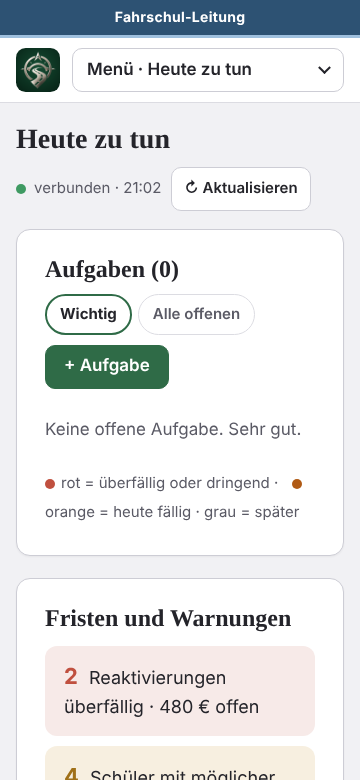
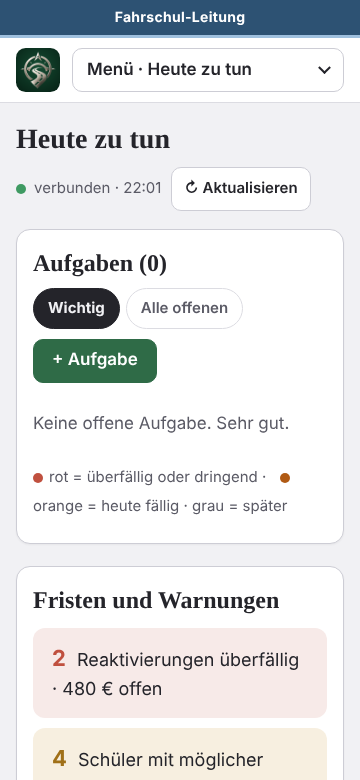
Farbe B nach Prüf-Team: IBAN-Feld am Handy (weniger Karten-Innenabstand), Gewähltes gefüllt, App-Chips und Reiter deutlich, Zusatztexte ≥4,5, Haken dunkel, Fokus im Fahrmodus, Block schraffiert, Fahrstunde #6a6a74 in App und Büro, Fahrzeugfarbe 1 sandig, Druck neutral, „Als nächstes“ dunkelgrün
Claude-Session: https://claude.ai/code/session_01DbS8C9itrfELPRqrxcZDoy

diff --git a/index.html b/index.html
@@ -24,7 +24,7 @@
   --txt:#eceff4; --muted:#b2bac7; --faint:#98a2b2;
   /* === Waldgrün-Akzent (ersetzt Orange; Variablennamen bleiben für Kompatibilität) === */
   --orange:#3f7f58; --orange-soft:rgba(255,255,255,.07); --orange-line:rgba(255,255,255,.16);
-  --akzent:#3f7f58; --akzent-dark:#336a4a; --akzent-bright:#8fcaa4; --fokus:#8fcaa4;
+  --akzent:#3f7f58; --akzent-dark:#336a4a; --akzent-bright:#8fcaa4; --fokus:#8fcaa4; --sel-bg:#3d4a5e; --sel-rand:#8fcaa4; --sel-txt:#ffffff;
   /* Alias — an mehreren Stellen (Nächste-Prüfung-Karte, Nächster-Schüler-Karte, Prüfungs-Tags) referenziert,
      bisher nirgends definiert gewesen -> Karten hatten unsichtbaren Hintergrund/Rand. */
   --gruen-soft:var(--orange-soft); --gruen-line:var(--orange-line);
@@ -1561,6 +1561,7 @@ body:not(.light) .cw-col.today .cw-dnum{color:var(--gold);}
 .cw-dnum{font-size:18px;font-weight:800;font-family:'Playfair Display',serif;}
 .cw-col.today .cw-dnum{color:var(--mint);}
 .cw-events{display:flex;flex-direction:column;gap:4px;}
+.cw-ev[style*="border-left-color:#88939a"],.ct-ev[style*="border-left-color:#88939a"]{background-image:repeating-linear-gradient(135deg,rgba(128,128,140,.28) 0,rgba(128,128,140,.28) 6px,transparent 6px,transparent 12px);}
 .cw-ev{border-left:3px solid var(--gruen-bright,#4a8b45);background:var(--bg-soft);border-radius:6px;padding:5px 6px;text-align:left;}
 .cw-ev.exam-soon{box-shadow:0 0 0 1.5px #c9a227 inset;background:rgba(201,162,39,.1);}
 .cw-ev.exam-done{background:var(--bg-soft);opacity:.92;}
@@ -1756,7 +1757,7 @@ body:not(.light) .fs-buero-link .fbl-ic,body:not(.light) .fs-buero-link .fbl-pfe
 .vortest-big .vb-ic{font-size:22px;flex:0 0 auto;}
 .vortest-big .vb-body .vb-name{color:#fff;font-weight:800;font-size:15px;}
 .vortest-big .vb-body .vb-sub{color:rgba(255,255,255,.88);font-size:12px;margin-top:1px;}
-.vortest-big .vb-arr{color:rgba(255,255,255,.6);font-size:18px;margin-left:auto;}
+.vortest-big .vb-arr{color:#fff;font-size:18px;margin-left:auto;}
 .vortest-big:active{opacity:.85;}
 /* Sehhilfe */
 .chip.sehhilfe{color:var(--muted);border-color:var(--line-soft);cursor:pointer;}
@@ -2106,7 +2107,7 @@ body:not(.light) .fs-btn-kill{color:#ff8a80;} /* K3: „Sperren“ dunkel lesbar
   --line:#38414f; --line-soft:#2e3643; --feld:#7a8598;
   --txt:#eceff4; --muted:#b2bac7; --faint:#98a2b2;
   --orange:#3f7f58; --orange-soft:rgba(255,255,255,.07); --orange-line:rgba(255,255,255,.16);
-  --akzent:#3f7f58; --akzent-dark:#336a4a; --akzent-bright:#8fcaa4; --fokus:#8fcaa4;
+  --akzent:#3f7f58; --akzent-dark:#336a4a; --akzent-bright:#8fcaa4; --fokus:#8fcaa4; --sel-bg:#3d4a5e; --sel-rand:#8fcaa4; --sel-txt:#ffffff;
   --gruen-soft:var(--orange-soft); --gruen-line:var(--orange-line);
   --mint:#bcd6c5; --mint-soft:#9fc3ab;
   --gold:#c9a227; --gold-soft:rgba(201,162,39,.16); --gold-line:rgba(201,162,39,.4);
@@ -2123,7 +2124,7 @@ body.light{
   --line:#cdcdd5; --line-soft:#dcdce2; --feld:#85858f;
   --txt:#24242a; --muted:#5a5a65; --faint:#66666f;
   --orange:#2f6b47; --orange-soft:rgba(36,36,42,.06); --orange-line:rgba(36,36,42,.18);
-  --akzent:#2f6b47; --akzent-dark:#2f6b47; --akzent-bright:#2f6b47; --fokus:#2f6b47;
+  --akzent:#2f6b47; --akzent-dark:#2f6b47; --akzent-bright:#2f6b47; --fokus:#2f6b47; --sel-bg:#24242a; --sel-rand:#24242a; --sel-txt:#ffffff;
   --gruen-soft:var(--orange-soft); --gruen-line:var(--orange-line);
   --mint:#2f6b47; --mint-soft:#2f6b47; --mint-ok:var(--gruen);
   --gold:#b8873a; --gold-soft:rgba(184,135,58,.14); --gold-line:rgba(184,135,58,.35);
@@ -2146,7 +2147,7 @@ body{font-size:15.5px;line-height:1.5;letter-spacing:0;}
 .res-block h4{color:var(--muted) !important;}
 .o{color:var(--akzent) !important;}
 body:not(.light) .o,body:not(.light) .brand-script b,body:not(.light) .sp-name b,body:not(.light) .ap-title{color:var(--akzent-bright) !important;}
-body:not(.light) .pill.on,body:not(.light) .f-chip.on,body:not(.light) .pr-chip.on,body:not(.light) .pt-tab.on,body:not(.light) .fs-status-on,body:not(.light) .es-act.good{color:var(--akzent-bright) !important;}
+body:not(.light) .fs-status-on,body:not(.light) .es-act.good{color:var(--akzent-bright) !important;}
 body::before{background:var(--bg) !important;}
 body::after{display:none !important;}
 body.light::before{background:var(--bg) !important;}
@@ -2178,7 +2179,7 @@ body.light::before{background:var(--bg) !important;}
 .btn-primary{background:var(--akzent) !important;color:#fff !important;border:none !important;}
 .btn-primary:active{background:var(--akzent-dark) !important;}
 .btn-ghost{background:transparent !important;border:1px solid var(--line) !important;color:var(--txt) !important;}
-.pill.on,.f-chip.on,.pr-chip.on,.pt-tab.on{background:var(--orange-soft) !important;border-color:var(--orange-line) !important;color:var(--akzent-dark) !important;}
+.pill.on,.f-chip.on,.pr-chip.on,.pt-tab.on{background:var(--sel-bg) !important;border-color:var(--sel-rand) !important;color:var(--sel-txt) !important;}
 .nex-card::before{background:var(--akzent) !important;width:4px !important;border-radius:4px;top:14px !important;height:calc(100% - 28px) !important;}
 .hc-n{font-size:34px !important;font-weight:600 !important;letter-spacing:-.02em !important;}
 .stat .badge,.na-ic,.ns-ic,.nex-ic{border-radius:999px !important;background:var(--orange-soft) !important;box-shadow:none !important;}
@@ -2206,7 +2207,7 @@ body:has(#sheet.open) .toast{bottom:auto !important;top:calc(14px + env(safe-are
 .view-inner{padding-bottom:160px !important;}
 /* Umbau 2026-10: Farb- und Schrift-Grundlagen aus dem freigegebenen Entwurf (werden ab Schritt 2 genutzt) */
 :root{--k-grund:#F1F1F4;--k-tinte:#24242A;--k-text2:#5A5A65;--k-rand:#CDCDD5;--k-karte:#FFFFFF;
-  --k-akzent:#2F6B47;--k-akzent-hell:#E9E9EE;--k-jetzt:#24242A;--k-mint:#5BD18E;--k-mint-hell:#9FD3B4;
+  --k-akzent:#2F6B47;--k-akzent-hell:#E9E9EE;--k-jetzt:#1F3A2C;--k-mint:#5BD18E;--k-mint-hell:#9FD3B4;
   --k-gelb:#FBEFD9;--k-gelb-text:#7A4508;--k-rot:#F8E3DF;--k-rot-text:#8E2A1E;--k-whatsapp:#0F7D6E;
   --k-font-titel:"Playfair Display",Georgia,serif;--k-font-text:"Manrope",system-ui,sans-serif;--k-radius:16px;--k-tipp:44px;}
 /* Umbau Schritt 2: Startseite „Heute“ nach dem freigegebenen Entwurf. Hell = Entwurf, Dunkel = gleiche Ordnung auf dunklem Grund. */
@@ -2254,7 +2255,7 @@ body:not(.light) .h2-wx .wx-wolke-f:not([fill*="wxd"]){fill:#DDE6E0;}
 body:not(.light) .h2-wx .wx-wolke-f{stroke:#b8bfcb;}
 body:not(.light) .h2-wx.wx-nebel g{stroke:#b8bfcb;}
 /* Jetzt dran: immer dunkelgrün mit Mint */
-.h2-jetzt{background:var(--k-jetzt);color:#fff;border:1px solid #454d5c;border-radius:24px;padding:20px;display:flex;flex-direction:column;gap:14px;}
+.h2-jetzt{background:var(--k-jetzt);color:#fff;border:1px solid #3b5a49;border-radius:24px;padding:20px;display:flex;flex-direction:column;gap:14px;}
 .h2-jetzt-kopf{display:flex;align-items:center;justify-content:space-between;gap:10px;}
 .h2-jetzt-label{display:flex;align-items:center;gap:8px;font-size:12px;font-weight:800;letter-spacing:.08em;text-transform:uppercase;color:var(--k-mint-hell);}
 .h2-live{width:8px;height:8px;border-radius:50%;background:var(--k-mint);display:inline-block;animation:h2puls 1.6s ease-in-out infinite;flex:0 0 auto;}
@@ -2268,12 +2269,12 @@ body:not(.light) .h2-wx.wx-nebel g{stroke:#b8bfcb;}
 .h2-jetzt-fokus{font-size:13.5px;color:#d4d7de;overflow-wrap:anywhere;}
 .h2-jetzt-pct{margin-left:auto;font-family:var(--k-font-titel);font-size:22px;font-weight:700;color:var(--k-mint-hell);flex:0 0 auto;}
 .h2-kontakt{display:grid;grid-template-columns:repeat(2,minmax(0,1fr));gap:8px;}
-.h2-knopf{min-height:46px;border-radius:14px;border:1px solid #454d5c;background:#2d3440;color:#fff;font-weight:700;font-size:14px;display:flex;align-items:center;justify-content:center;gap:8px;text-decoration:none;padding:0 10px;}
+.h2-knopf{min-height:46px;border-radius:14px;border:1px solid rgba(255,255,255,.22);background:rgba(255,255,255,.08);color:#fff;font-weight:700;font-size:14px;display:flex;align-items:center;justify-content:center;gap:8px;text-decoration:none;padding:0 10px;}
 .h2-knopf svg{width:18px;height:18px;}
 .h2-haupt{min-height:54px;border-radius:16px;background:var(--k-mint);color:#0E2A1B;font-size:16px;font-weight:800;display:flex;align-items:center;justify-content:center;gap:10px;border:0;width:100%;}
 .h2-haupt svg{width:20px;height:20px;}
 .h2-schnell{display:grid;grid-template-columns:repeat(3,minmax(0,1fr));gap:6px;}
-.h2-mini{min-height:48px;padding:4px 6px;border-radius:12px;background:#2d3440;border:1px solid #454d5c;color:#d4d7de;font-size:12px;font-weight:700;line-height:1.2;display:flex;align-items:center;justify-content:center;text-align:center;}
+.h2-mini{min-height:48px;padding:4px 6px;border-radius:12px;background:rgba(255,255,255,.08);border:1px solid rgba(255,255,255,.22);color:#d4d7de;font-size:12px;font-weight:700;line-height:1.2;display:flex;align-items:center;justify-content:center;text-align:center;}
 .h2-leer{align-items:flex-start;}
 .h2-fortsetzen{display:flex;align-items:center;gap:10px;min-height:52px;padding:0 16px;border-radius:16px;border:1px solid var(--k-mint);background:#2f3846;color:#fff;font-size:15px;font-weight:800;text-align:left;width:100%;}
 .h2-fortsetzen .h2-fs-zeit{margin-left:auto;font-size:12.5px;font-weight:700;color:#c5c9d2;}
@@ -2326,6 +2327,7 @@ body:not(.light) .h2-knopf,body:not(.light) .h2-mini{background:#2b323e;border-c
 .heute2 .cap-title{color:var(--h-text2);}
 .heute2 .cap-pct{color:var(--h-tinte) !important;font-weight:800;font-variant-numeric:lining-nums;}
 .heute2 .cap-foot{color:var(--h-text2);}
+body.light .fc-missing-link{color:var(--zahl-rot);}
 .heute2 .fc-missing-link,.heute2 .cap-card,.heute2 #capCard{min-height:48px;}
 /* Querformat: rechts Platz für den Plus-Knopf, damit er keine Knöpfe verdeckt */
 @media (orientation:landscape) and (max-height:520px){ .heute2{padding-right:calc(var(--pad,16px) + 72px) !important;} .tabbar{background:var(--bg) !important;} }
@@ -2473,7 +2475,7 @@ body:not(.light) .ap-zeile b.ok{color:var(--mint-ok);} body:not(.light) .ap-zeil
 /* Umbau Schritt 5a: übrige Seiten im gleichen Stil wie Heute/Schüler. Nur Aussehen.
    #view bekommt data-seite2 (gesetzt in navInstallieren, siehe SEITE2_ROUTEN); die ID-Stärke schlägt die alten !important-Regeln. */
 #view[data-seite2]{--s2-karte:var(--k-karte);--s2-rand:var(--k-rand);--s2-tinte:var(--k-tinte);--s2-text2:var(--k-text2);--s2-on:var(--k-tinte);--s2-on-t:#fff;--s2-akzent:var(--k-akzent);--s2-trenn:#EEF2EC;}
-body:not(.light) #view[data-seite2]{--s2-karte:var(--surface);--s2-rand:var(--line);--s2-tinte:var(--txt);--s2-text2:#b2bac7;--s2-on:#2f3846;--s2-on-t:#fff;--s2-akzent:var(--mint-ok,#7fbf95);--s2-trenn:var(--line-soft);}
+body:not(.light) #view[data-seite2]{--s2-karte:var(--surface);--s2-rand:var(--line);--s2-tinte:var(--txt);--s2-text2:#b2bac7;--s2-on:#3d4a5e;--s2-on-t:#fff;--s2-akzent:var(--mint-ok,#7fbf95);--s2-trenn:var(--line-soft);}
 body.light:has(#view[data-seite2]){background:var(--k-grund) !important;}
 body.light:has(#view[data-seite2])::before{background:var(--k-grund) !important;}
 #view[data-seite2] .view-inner,#view[data-seite2] .view-inner *:not(svg):not(svg *){font-family:var(--k-font-text) !important;}
@@ -2728,9 +2730,10 @@ body:not(.light) #view[data-seite2] .cw-col.today{background:rgba(91,209,142,.10
   color:var(--muted);font-size:11px;font-weight:600;letter-spacing:.02em;border-radius:18px;transition:color .15s var(--ease);}
 .tab-ic{width:56px;height:30px;border-radius:999px;display:flex;align-items:center;justify-content:center;transition:background .18s var(--ease),transform .18s var(--pop);}
 .tab-i svg{width:22px;height:22px;stroke:currentColor;}
-.tab-i.on{color:var(--akzent-dark);}
+.tab-i.on{color:#24573a;}
 body:not(.light) .tab-i.on{color:var(--akzent-bright);}
-.tab-i.on .tab-ic{background:var(--orange-soft);}
+.tab-i.on .tab-ic{background:rgba(47,107,71,.16);}
+body:not(.light) .tab-i.on .tab-ic{background:rgba(143,202,164,.22);}
 .tab-i:active .tab-ic{transform:scale(.9);}
 #alphaNav{border-radius:999px !important;}
 /* Kalender-/Statistik-Akzente, die bisher Waldgrün waren (nicht die Ampel — die bleibt) */
@@ -2773,9 +2776,9 @@ body:not(.light) .lo-logo span{color:var(--akzent-bright) !important;}
 .lo-btn{background:var(--akzent) !important;color:#fff !important;border-radius:999px !important;box-shadow:none !important;font-weight:600 !important;}
 .lo-err{border-radius:16px !important;}
 /* Zustands-Farben, die der Design-Hintergrund sonst verschluckt (Weiß auf Weiß) */
-.pill.sel{background:var(--orange-soft) !important;border-color:var(--orange-line) !important;color:var(--akzent-dark) !important;}
+.pill.sel{background:var(--sel-bg) !important;border-color:var(--sel-rand) !important;color:var(--sel-txt) !important;}
 .chip.chip-goal{background:var(--orange-soft) !important;border-color:var(--orange-line) !important;color:var(--akzent-dark) !important;}
-body:not(.light) .pill.sel,body:not(.light) .chip.chip-goal{color:var(--akzent-bright) !important;}
+body:not(.light) .chip.chip-goal{color:var(--akzent-bright) !important;}
 .std.filled{background:var(--orange-soft) !important;border-color:var(--akzent) !important;}
 .sonder-row .std.filled{background:var(--clay-soft) !important;border-color:var(--clay) !important;}
 .wait-card .wait-days[style*="--gruen"] .wd-n,.wait-card .wait-days[style*="--gruen"] .wd-l{color:#fff !important;opacity:.95;}
@@ -2802,6 +2805,21 @@ body.light .fc-miss-sum b{color:#7a2a1e !important;}
 /* Farbwahl B: Fokus-Ring deutlich (mindestens 3:1), Platzhalter lesbar */
 button:focus-visible,a:focus-visible,input:focus-visible,select:focus-visible,textarea:focus-visible,[role="button"]:focus-visible,[tabindex]:focus-visible{outline:3px solid var(--fokus);outline-offset:2px;}
 ::placeholder{color:var(--muted);opacity:1;}
+/* Farbwahl B, Nachbesserung: kleine Texte mit Kontrast >= 4,5:1 */
+.cw-evstat{color:var(--zahl-rot);}
+.fc-no .fcheck-mark{color:#8a2a18;}
+body:not(.light) .fc-no .fcheck-mark{color:var(--zahl-rot);}
+.fc-ok .fcheck-mark{color:#24693f;}
+body:not(.light) .fc-ok .fcheck-mark{color:#8fd6a9;}
+.amp[data-v="gruen"].on,.amp.chk.on{color:#10261a;}
+.amp.chk.on::after{color:#10261a;}
+.skill .sk-ort{opacity:1 !important;}
+.skill-info b,.res-block h4,.plan-sec-h .nr,.acc-h .nr,.tm-btn,.sim-plus,.slot-free,.wait-days .wd-n,.fs-status-on{color:var(--akzent-bright);}
+.sonder-row .std.filled .n,.sonder-row .top span:first-child,.sonder-row .soll b{color:var(--clay-text);}
+:root{--clay-text:#a85a38;}
+body:not(.light){--clay-text:#e8a283;}
+/* Fahrmodus (immer dunkel): heller Fokus-Ring */
+.fahrmodus :focus-visible,.fahrmodus button:focus-visible{outline-color:#8fcaa4;}
 </style>
 </head>
 <body>
@@ -6433,7 +6451,7 @@ async function routeFahrschuleDetail(fahrschuleId){
   const schuelerRows=schueler.map(s=>{
     const paketName=s.paket_id?esc((pakete.find(p=>p.id===s.paket_id)||{}).name||""):"";
     const badges=[
-      s.bogen_ausgefuellt?'<span style="color:#4a8b45;">✓ Bogen</span>':'<span style="color:var(--muted);">– kein Bogen</span>',
+      s.bogen_ausgefuellt?'<span style="color:var(--akzent-bright);">✓ Bogen</span>':'<span style="color:var(--muted);">– kein Bogen</span>',
       paketName?`<span style="color:var(--muted);">${paketName}</span>`:"",
       s.hat_simulator?"🎮":"", s.hat_theorie_app?"📘":""
     ].filter(Boolean).join(" &nbsp;·&nbsp; ");
@@ -7188,7 +7206,7 @@ function routeFahrschuleKategorie(key){
     let extra="";
     if(key==="simulator") extra=`<div class="fs-sub">Zeitraum: ${esc(t.von||"")}–${esc(t.bis||"")}</div>`;
     if(key==="beratung"&&!t.sid) extra=`<div class="fs-sub">Interessent (noch kein Schüler) &nbsp;·&nbsp; ${esc(t.interessent_telefon||"– keine Nummer –")}</div>`;
-    if(key==="theorie_pruefung") extra=`<div class="fs-sub" style="margin-top:4px;">${t.theorie_bestanden==null?"Noch offen":(t.theorie_bestanden?'<span style="color:#4a8b45;">✅ Bestanden</span>':'<span style="color:#c83c3c;">❌ Nicht bestanden</span>'+(t.theorie_gesperrt_bis?` · Sperre bis ${isoDE(t.theorie_gesperrt_bis)}`:''))}</div>
+    if(key==="theorie_pruefung") extra=`<div class="fs-sub" style="margin-top:4px;">${t.theorie_bestanden==null?"Noch offen":(t.theorie_bestanden?'<span style="color:var(--akzent-bright);">✅ Bestanden</span>':'<span style="color:#c83c3c;">❌ Nicht bestanden</span>'+(t.theorie_gesperrt_bis?` · Sperre bis ${isoDE(t.theorie_gesperrt_bis)}`:''))}</div>
       <div class="fs-actions"><button class="fs-btn-activate" onclick="fsTheorieErgebnis(${_jsArg(t.id)},true)">Bestanden</button><button class="fs-btn-kill" onclick="fsTheorieErgebnis(${_jsArg(t.id)},false)">Nicht bestanden</button></div>`;
     if(key==="ersthilfe") extra=`<div class="toggle-row" style="margin-top:6px;"><div class="tc-name" style="font-size:13px;">Bezahlt</div><button class="check-toggle${t.kurs_bezahlt?' on':''}" onclick="fsKursBezahltToggle(${_jsArg(t.id)},${!t.kurs_bezahlt})"></button></div>`;
     return `<div class="fs-card">
@@ -7659,7 +7677,7 @@ async function neuenSchuelerAnlegenFS(fahrschuleId){
 /* ============================================================
    FAHRSCHULE-KALENDER (Wochenansicht, alle Fahrlehrer, filterbar)
    ============================================================ */
-const FS_KAL_FARBEN=["#7d7d86","#4a8bd6","#cf9a3e","#b23a6b","#3aa7b2","#8a5fd6","#c85a3a","#5f9e3a"];
+const FS_KAL_FARBEN=["#9a8f7e","#4a8bd6","#cf9a3e","#b23a6b","#3aa7b2","#8a5fd6","#c85a3a","#5f9e3a"];
 function _fsKalFarbeFuer(fahrlehrerId,lehrerListe){
   const idx=lehrerListe.findIndex(l=>l.id===fahrlehrerId);
   return FS_KAL_FARBEN[(idx<0?0:idx)%FS_KAL_FARBEN.length];
@@ -9915,7 +9933,7 @@ function uePrognoseKachel(s){
   const persoenlich=ueDurchschnittPersoenlich();
   const zeilePersoenlich=persoenlich!=null
     ?`<div style="display:flex;justify-content:space-between;align-items:center;margin:5px 0;font-size:13px;"><span style="color:var(--muted);">Ø bei mir bis bestanden</span><b>${Math.round(persoenlich)} UE</b></div>
-      <div style="display:flex;justify-content:space-between;align-items:center;margin:5px 0;font-size:13px;color:#4a8b45;"><span>Voraussichtlich noch offen</span><b>~${Math.max(0,Math.round(persoenlich+UE_PROGNOSE_PUFFER-bisher))} UE</b></div>`
+      <div style="display:flex;justify-content:space-between;align-items:center;margin:5px 0;font-size:13px;color:var(--akzent-bright);"><span>Voraussichtlich noch offen</span><b>~${Math.max(0,Math.round(persoenlich+UE_PROGNOSE_PUFFER-bisher))} UE</b></div>`
     :`<p class="muted-p" style="font-size:12px;margin:4px 0 0;">Noch keine eigenen bestandenen Prüfungen für einen Durchschnitt.</p>`;
   return `<div class="res-block" style="animation:none;margin-top:9px;">
     <h4>📊 UE-Prognose</h4>
@@ -9954,9 +9972,9 @@ function examPrognose(s){
   const allExams=(DB.exams||[]).filter(istPruefung);
   const passRate=allExams.length?Math.round(allExams.filter(e=>e.result==="pass").length/allExams.length*100):null;
   let label,color,hint;
-  if(pct>=90&&theorieOk){label="Sehr gut vorbereitet";color="var(--gruen)";hint="Ausbildungsstand und Theorie passen — bereit für die Prüfungsanmeldung.";}
-  else if(pct>=70){label="Auf gutem Weg";color="#cf9a3e";hint=theorieOk?"Ausbildungsstand steigt, Theorie schon bestanden.":"Noch ein paar Themen offen, Theorie im Blick behalten.";}
-  else{label="Noch Zeit nötig";color="#cf5a48";hint="Ausbildungsstand braucht noch Übung, bevor eine Prüfung Sinn ergibt.";}
+  if(pct>=90&&theorieOk){label="Sehr gut vorbereitet";color="#2c7a4f";hint="Ausbildungsstand und Theorie passen — bereit für die Prüfungsanmeldung.";}
+  else if(pct>=70){label="Auf gutem Weg";color="#8a5a12";hint=theorieOk?"Ausbildungsstand steigt, Theorie schon bestanden.":"Noch ein paar Themen offen, Theorie im Blick behalten.";}
+  else{label="Noch Zeit nötig";color="#b3392b";hint="Ausbildungsstand braucht noch Übung, bevor eine Prüfung Sinn ergibt.";}
   return `<div class="res-block prognose-card" style="animation:none;">
     <h4><span class="ic ic-gold" style="font-size:14px;">${ICN.target}</span> Prüfungs-Einschätzung</h4>
     <div style="display:flex;align-items:center;gap:12px;margin:8px 0;">
@@ -10454,7 +10472,7 @@ function routePlanVorlagen(){
     const n=activeStudents().filter(s=>s.planId===p.id).length;
     const canDelete=DB.ausbildungsplaene.length>1;
     return `<div class="res-block" style="animation:none;">
-      <h4>${esc(p.name)}${p.standard?' <span style="color:#4a8b45;font-size:12px;font-weight:700;">· Standard</span>':''}</h4>
+      <h4>${esc(p.name)}${p.standard?' <span style="color:var(--akzent-bright);font-size:12px;font-weight:700;">· Standard</span>':''}</h4>
       <p>${n} aktive${n===1?'r':''} Schüler nutzt${n===1?'':'en'} diese Vorlage.</p>
       <div class="btn-row" style="flex-wrap:wrap;">
         <button class="btn btn-ghost" data-editplan="${p.id}">Bearbeiten</button>
@@ -12285,7 +12303,7 @@ function routeSettings(){
   view.innerHTML=`<div class="view-inner view-read fade-up">
     <h1 class="sec-h set-titel">Einstellungen</h1>
     ${logoutBtn}
-    ${_authUser?`<div class="res-block" style="animation:none;background:rgba(74,139,69,.06);border-color:rgba(74,139,69,.2);"><h4 style="color:#4a8b45">☁ Cloud-Konto</h4><p style="color:#98a2b2;font-size:13px;">${esc(_authUser.email)}</p><p style="color:var(--muted);font-size:12px;margin-top:4px;">Daten werden automatisch gesichert.</p></div>`:""}
+    ${_authUser?`<div class="res-block" style="animation:none;background:rgba(74,139,69,.06);border-color:rgba(74,139,69,.2);"><h4 style="color:var(--akzent-bright)">☁ Cloud-Konto</h4><p style="color:#98a2b2;font-size:13px;">${esc(_authUser.email)}</p><p style="color:var(--muted);font-size:12px;margin-top:4px;">Daten werden automatisch gesichert.</p></div>`:""}
 
     <div class="acc set-acc${_settingsAccOpen==='app'?' open':''}" data-acckey="app"><button class="acc-h" onclick="_settingsAccToggle('app')" style="cursor:pointer;"><span class="set-ic" style="width:30px;">${_li("handy")}</span><span style="flex:1;text-align:left;font-family:'Anton',sans-serif;text-transform:uppercase;font-size:15px;letter-spacing:.03em;">App anpassen</span><span class="chev">${ICN.chev}</span></button>
       <div class="acc-body"><div class="acc-inner" style="padding:0 16px 16px;">
@@ -12383,16 +12401,16 @@ function routeSettings(){
           <details style="margin-top:4px;">
             <summary style="color:var(--muted);font-size:13px;cursor:pointer;padding:4px 0;">Anzeigen</summary>
             <div style="margin-top:12px;display:flex;flex-direction:column;gap:10px;font-size:13px;color:var(--txt);line-height:1.6;">
-              <div><b style="color:#4a8b45">🏠 Dashboard</b><br>Übersicht: aktive Schüler, Kapazität, nächste Prüfungen. Kacheln antippen für Schnellzugriff.</div>
-              <div><b style="color:#4a8b45"><span class="ic ic-gruen" style="font-size:14px;">${ICN.users}</span> Schüler</b><br>Alle aktiven Schüler. + oben rechts = neuer Schüler. Schüler antippen = Detailansicht mit Plan, Bogen, Historie.</div>
-              <div><b style="color:#4a8b45">📋 Ausbildungsplan</b><br>Grüne Ampel = geschafft, Gelb = in Arbeit, Rot = fehlt noch. FC = Fahrcheck. Sonderfahrten einzeln abhaken.</div>
-              <div><b style="color:#4a8b45">🧠 Persönlichkeitsbogen</b><br>65 Fragen → DISC-Profil (Rot/Gelb/Grün/Blau). Zeigt Coaching-Hinweise für den Umgang mit dem Schüler.</div>
-              <div><b style="color:#4a8b45"><span class="ic ic-gold" style="font-size:14px;">${ICN.trophy}</span> Prüfungen</b><br>Termin eintragen → Ergebnis eintragen. Bestandene Prüfungen verschwinden automatisch ins Archiv.</div>
-              <div><b style="color:#4a8b45"><span class="ic ic-gold" style="font-size:14px;">${ICN.cal}</span> Kalender</b><br>Fahrstunden planen, Fahrzeug zuweisen, Sonderfahrten eintragen. Feiertage (Hessen) automatisch markiert.</div>
-              <div><b style="color:#4a8b45">⏳ Warteliste</b><br>Schüler landen hier ab 90 % Ausbildungsstand + bestandener Theorie. Reihenfolge = ältestes Datum zuerst.</div>
-              <div><b style="color:#4a8b45"><span class="ic ic-gold" style="font-size:14px;">${ICN.chart}</span> Statistik</b><br>Prüfungsquote, Durchfallanalyse, Prüfer-Statistik, monatlicher Verdienst (PIN-geschützt).</div>
-              <div><b style="color:#4a8b45"><span class="ic ic-blau" style="font-size:14px;">${ICN.pencil}</span> Zeichenfläche</b><br>Kreuzungen und Situationen zeichnen. Objekte aus dem Panel per Drag&amp;Drop platzieren. Stift, Radierer, Undo.</div>
-              <div><b style="color:#4a8b45"><span class="ic ic-gold" style="font-size:14px;">${ICN.save}</span> Backup</b><br>Daten werden automatisch in der Cloud gespeichert. Manuelles Backup zusätzlich empfohlen — z.B. einmal pro Woche.</div>
+              <div><b style="color:var(--akzent-bright)">🏠 Dashboard</b><br>Übersicht: aktive Schüler, Kapazität, nächste Prüfungen. Kacheln antippen für Schnellzugriff.</div>
+              <div><b style="color:var(--akzent-bright)"><span class="ic ic-gruen" style="font-size:14px;">${ICN.users}</span> Schüler</b><br>Alle aktiven Schüler. + oben rechts = neuer Schüler. Schüler antippen = Detailansicht mit Plan, Bogen, Historie.</div>
+              <div><b style="color:var(--akzent-bright)">📋 Ausbildungsplan</b><br>Grüne Ampel = geschafft, Gelb = in Arbeit, Rot = fehlt noch. FC = Fahrcheck. Sonderfahrten einzeln abhaken.</div>
+              <div><b style="color:var(--akzent-bright)">🧠 Persönlichkeitsbogen</b><br>65 Fragen → DISC-Profil (Rot/Gelb/Grün/Blau). Zeigt Coaching-Hinweise für den Umgang mit dem Schüler.</div>
+              <div><b style="color:var(--akzent-bright)"><span class="ic ic-gold" style="font-size:14px;">${ICN.trophy}</span> Prüfungen</b><br>Termin eintragen → Ergebnis eintragen. Bestandene Prüfungen verschwinden automatisch ins Archiv.</div>
+              <div><b style="color:var(--akzent-bright)"><span class="ic ic-gold" style="font-size:14px;">${ICN.cal}</span> Kalender</b><br>Fahrstunden planen, Fahrzeug zuweisen, Sonderfahrten eintragen. Feiertage (Hessen) automatisch markiert.</div>
+              <div><b style="color:var(--akzent-bright)">⏳ Warteliste</b><br>Schüler landen hier ab 90 % Ausbildungsstand + bestandener Theorie. Reihenfolge = ältestes Datum zuerst.</div>
+              <div><b style="color:var(--akzent-bright)"><span class="ic ic-gold" style="font-size:14px;">${ICN.chart}</span> Statistik</b><br>Prüfungsquote, Durchfallanalyse, Prüfer-Statistik, monatlicher Verdienst (PIN-geschützt).</div>
+              <div><b style="color:var(--akzent-bright)"><span class="ic ic-blau" style="font-size:14px;">${ICN.pencil}</span> Zeichenfläche</b><br>Kreuzungen und Situationen zeichnen. Objekte aus dem Panel per Drag&amp;Drop platzieren. Stift, Radierer, Undo.</div>
+              <div><b style="color:var(--akzent-bright)"><span class="ic ic-gold" style="font-size:14px;">${ICN.save}</span> Backup</b><br>Daten werden automatisch in der Cloud gespeichert. Manuelles Backup zusätzlich empfohlen — z.B. einmal pro Woche.</div>
             </div>
           </details>
         </div>
@@ -13377,7 +13395,7 @@ function routeArbeitszeit(){
 /* ===================== KALENDER-ANSICHT ===================== */
 let _calView="woche", _calDate=null, _calFilter="alle";
 let _calFzFilter=null, _calNurFrei=false, _calFcOffen=false; // erweiterte Filter
-const CAL_ARTEN={ fahrstunde:{lab:"Fahrstunde",col:"#7d7d86"}, nacht:{lab:"Nachtfahrt",col:"#5a7da8",hideleg:true}, sonder:{lab:"Sonderfahrt",col:"#5a7da8",sf:true}, pruefung:{lab:"Prüfung",col:"#c9a227"}, theorie:{lab:"Theorie",col:"#9b7dc4"}, schalt:{lab:"Schaltkompetenz",col:"#c4607d",min:15}, block:{lab:"Blockiert",col:"#88939a"}, vortest:{lab:"Vortest",col:"#d68a3e",hideleg:true}, simulator:{lab:"Simulator",col:"#3ea6a0",hideleg:true}, beratung:{lab:"Beratung",col:"#7a8fd6",hideleg:true}, ersthilfe:{lab:"Erste Hilfe",col:"#d65a5a",hideleg:true} };
+const CAL_ARTEN={ fahrstunde:{lab:"Fahrstunde",col:"#6a6a74"}, nacht:{lab:"Nachtfahrt",col:"#5a7da8",hideleg:true}, sonder:{lab:"Sonderfahrt",col:"#5a7da8",sf:true}, pruefung:{lab:"Prüfung",col:"#c9a227"}, theorie:{lab:"Theorie",col:"#9b7dc4"}, schalt:{lab:"Schaltkompetenz",col:"#c4607d",min:15}, block:{lab:"Blockiert",col:"#88939a"}, vortest:{lab:"Vortest",col:"#d68a3e",hideleg:true}, simulator:{lab:"Simulator",col:"#3ea6a0",hideleg:true}, beratung:{lab:"Beratung",col:"#7a8fd6",hideleg:true}, ersthilfe:{lab:"Erste Hilfe",col:"#d65a5a",hideleg:true} };
 /* Theorie-Lektionen 1-14 nach DEGENER-Ausbildungsplan (Marktstandard, den die meisten Fahrschulen
    nutzen): Grundstoff 1-12 nach Anlage 1 FahrschAusbO (alle Klassen), Zusatzstoff 13-14 nach
    Anlage 2.2 (Klasse B). Grundstoff darf laut FahrschAusbO mehrfach besucht werden, Zusatzstoff nicht. */
@@ -17035,7 +17053,7 @@ function routePrueferAkte(nm){
       <div class="pf-stat"><div class="ps-n">${st.quote.pct==null?'—':st.quote.pct+'%'}</div><div class="ps-l">bestanden</div></div>
       <div class="pf-stat"><div class="ps-n" style="font-size:18px;">${st.last?isoDE(st.last).slice(0,5):'—'}</div><div class="ps-l">zuletzt</div></div>
     </div>
-    ${exForPr.length?`<div style="text-align:center;margin:-4px 0 14px;font-size:13px;color:var(--muted);">Letzte ${Math.min(5,exForPr.length)}: ${exForPr.slice(0,5).reverse().map(e=>e.result==='pass'?'<span style="color:#4a8b45;">✓</span>':'<span style="color:#c83c3c;">✕</span>').join(" ")}</div>`:''}
+    ${exForPr.length?`<div style="text-align:center;margin:-4px 0 14px;font-size:13px;color:var(--muted);">Letzte ${Math.min(5,exForPr.length)}: ${exForPr.slice(0,5).reverse().map(e=>e.result==='pass'?'<span style="color:var(--akzent-bright);">✓</span>':'<span style="color:#c83c3c;">✕</span>').join(" ")}</div>`:''}
     <div class="seg pf-tabs" role="tablist">
       <button class="seg-i${_pfTab==='schueler'?' on':''}" data-pftab="schueler" role="tab" aria-selected="${_pfTab==='schueler'}">Schüler <span class="pf-tab-n">${bestanden+durch}</span></button>
       <button class="seg-i${_pfTab==='strecken'?' on':''}" data-pftab="strecken" role="tab" aria-selected="${_pfTab==='strecken'}">Strecken &amp; Notizen <span class="pf-tab-n">${mitNotiz.length}</span></button>

diff --git a/buero.css b/buero.css
@@ -164,7 +164,7 @@ nav{display:grid;gap:2px;}
 .tabs{display:flex;gap:6px;flex-wrap:wrap;}
 .tab{padding:8px 14px;border-radius:999px;text-decoration:none;color:var(--muted);font-weight:600;border:1px solid var(--line-soft);}
 .tab:hover{background:var(--surface-2);}
-.tab[aria-current="page"]{background:var(--surface);border:2px solid var(--fokus);padding:7px 13px;color:var(--txt);font-weight:700;}
+.tab[aria-current="page"]{background:var(--txt);border-color:var(--txt);color:var(--bg);font-weight:700;}
 .filterzeile{display:flex;flex-wrap:wrap;gap:10px;align-items:center;margin:4px 0 14px;}
 .filterzeile .suche{min-width:0;flex:0 1 auto;max-width:100%;}
 .filterzeile input[type=search]{flex:1 1 260px;}
@@ -458,17 +458,17 @@ details summary{cursor:pointer;font-weight:700;margin:6px 0;}
 @page{size:A4 landscape;margin:12mm 12mm 16mm 12mm;@bottom-center{content:"Vertraulich: enthält Personendaten. Nach Gebrauch bitte vernichten.";font-size:8pt;color:#555;}}
 @media print{
   :root{color-scheme:light;
-  --bg:#f3f1e9; --surface:#fffdf7; --surface-2:#ece7d8;
-  --line:#ddd5bd; --line-soft:#e8e2cd;
-  --txt:#23261d; --muted:#5f5e4b; --faint:#8d8a6a;
-  --akzent:#3a7350; --akzent-dark:#2f5d3f; --akzent-soft:rgba(58,115,80,.12); --akzent-line:rgba(58,115,80,.28);
+  --bg:#ffffff; --surface:#ffffff; --surface-2:#e9e9ee;
+  --line:#cdcdd5; --line-soft:#dcdce2;
+  --txt:#24242a; --muted:#5a5a65; --faint:#66666f;
+  --akzent:#2f6b47; --akzent-dark:#2f6b47; --akzent-soft:rgba(36,36,42,.05); --akzent-line:#2f6b47;
   --gold:#b8873a; --gold-soft:rgba(184,135,58,.14);
   --rot:#c0503f; --rot-soft:rgba(192,80,63,.12);
   --gelb:#b9862f; --gelb-soft:rgba(207,154,62,.16);
   --gruen:#3f9a62; --gruen-soft:rgba(76,175,114,.14);
   --blau:#2F7DD1; --blau-soft:rgba(47,125,209,.12);
   --pill-gelb:#7a5410; --pill-gruen:#24693f; --pill-rot:#a03a2b; /* Pill-Text hell: Kontrast ≥ 4,5:1 */
-  --schatten:0 1px 2px rgba(60,50,20,.06),0 6px 18px rgba(60,50,20,.07);
+  --schatten:none;
   --r:16px; --r-klein:10px;
   --seite:272px;
   --diagramm:#2e8550;
@@ -790,6 +790,7 @@ body.kiosk .rollen-streifen{display:none;}
 /* Farbwahl B: Zusatzregeln (neutrale Flächen, Grün nur als Akzent) */
 @media (prefers-color-scheme:dark){
   .aufgabe-zeile .gelesen,.knopf.ergebnis-ja{color:var(--gruen);}
+  .haken.blau.an,.haken.gruen.an,.haken.rot.an{color:#14181f;}
   .knopf.haupt:hover{background:#336a4a;}
   .nav-punkt .zahl,.nav-gruppe .zahl.klein,.toast.fehler{background:#b3392b;}
 }
@@ -798,3 +799,6 @@ body.kiosk .rollen-streifen{display:none;}
 .zm-form input{border-color:var(--feld);}
 .formular .zm-wahl{border-color:var(--line);}
 ::placeholder{color:var(--muted);opacity:1;}
+.chip:has(input:checked){background:var(--txt);border-color:var(--txt);color:var(--bg);}
+/* am Handy weniger Innenabstand in Karten, damit lange Eingaben (IBAN) ganz sichtbar sind */
+@media (max-width:640px){ .karte{padding:20px 16px;} .kachel{padding:20px 18px;} }

diff --git a/buero.js b/buero.js
@@ -2258,7 +2258,7 @@ function kBereichSetzen(termine) {
   }
   K_START = a; K_ENDE = Math.min(e, 24 * 60);
 }
-const K_FARBEN = { fahrstunde: "#7d7d86", nacht: "#5a7da8", sonder: "#5a7da8", pruefung: "#c9a227", theorie: "#9b7dc4", schalt: "#c4607d", block: "#88939a", vortest: "#d68a3e", simulator: "#3ea6a0", beratung: "#7a8fd6", ersthilfe: "#d65a5a" };
+const K_FARBEN = { fahrstunde: "#6a6a74", nacht: "#5a7da8", sonder: "#5a7da8", pruefung: "#c9a227", theorie: "#9b7dc4", schalt: "#c4607d", block: "#88939a", vortest: "#d68a3e", simulator: "#3ea6a0", beratung: "#7a8fd6", ersthilfe: "#d65a5a" };
 const K_ANSICHTEN = [["tag", "Tag"], ["woche", "Woche"], ["monat", "Monat"], ["jahr", "Jahr"]];
 const MONATE = ["Januar", "Februar", "März", "April", "Mai", "Juni", "Juli", "August", "September", "Oktober", "November", "Dezember"];
 const WOCHENTAGE_KURZ = ["Mo", "Di", "Mi", "Do", "Fr", "Sa", "So"];
@@ -2270,7 +2270,7 @@ function kTerminBlock(t) {
   if (b <= a) return "";
   const sn = schuelerName(t.schueler_id) || t.interessent_name || (t.payload && t.payload.note) || ARTEN[t.art] || "";
   const gesperrt = t.schueler_id && bueroGesperrt(S.schueler.find((x) => x.id === t.schueler_id));
-  return `<button type="button" class="k-termin${t.art === "block" ? " block" : ""}${gesperrt ? " gesperrt" : ""}" data-termin="${esc(t.id)}"${gesperrt ? ' title="Zahlung ausstehend" data-zahlung-hinweis' : ""} style="top:${(a - K_START) * K_PX}px;height:${Math.max((b - a) * K_PX - 2, 22)}px;--farbe:${K_FARBEN[t.art] || "#7d7d86"}">
+  return `<button type="button" class="k-termin${t.art === "block" ? " block" : ""}${gesperrt ? " gesperrt" : ""}" data-termin="${esc(t.id)}"${gesperrt ? ' title="Zahlung ausstehend" data-zahlung-hinweis' : ""} style="top:${(a - K_START) * K_PX}px;height:${Math.max((b - a) * K_PX - 2, 22)}px;--farbe:${K_FARBEN[t.art] || "#6a6a74"}">
         <span class="k-zeit">${esc(t.von)}–${esc(t.bis)}</span><span class="k-name">${gesperrt ? "⚠ " : ""}${esc(sn)}</span>${gesperrt ? `<span class="k-fz k-zahlung">Zahlung ausstehend</span>` : ""}${t.fahrzeug ? `<span class="k-fz">${esc(t.fahrzeug)}</span>` : ""}</button>`;
 }
 function kStundenAchse() {
